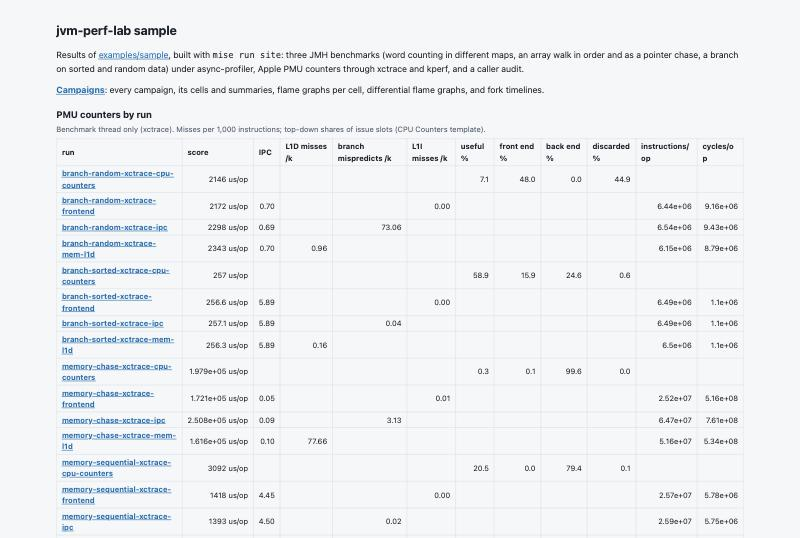
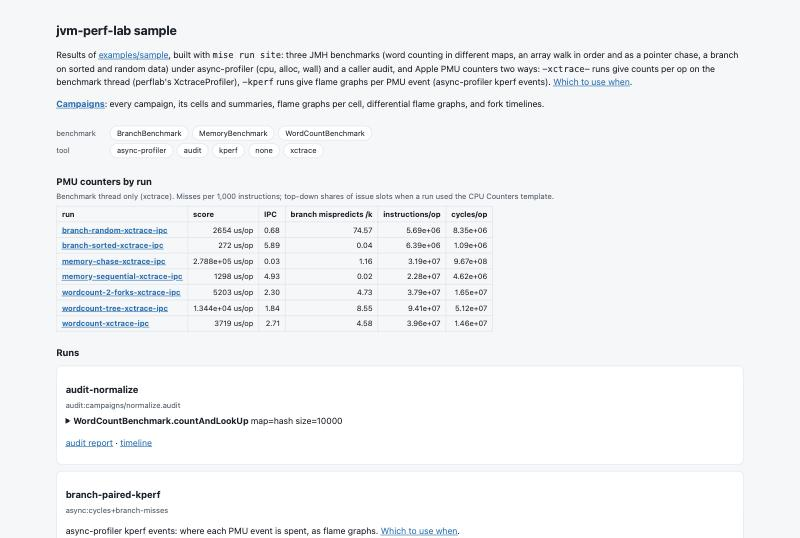
Sample site: two PMU events per kperf run, xctrace ipc only, three graph kinds, wall for one benchmark; multi-fork runs
regraph takes the graph kinds from [async] graphs in perflab.toml or --kinds. The site no longer lists timeline.html as a flame graph.
LLM-assisted (Claude).

diff --git a/python/src/perflab/regraph.py b/python/src/perflab/regraph.py
@@ -4,7 +4,8 @@ beside the async-profiler library). Multi-event kperf recordings need a jfrconv 
   perflab regraph [--jfrconv <jfrconv>] [-j <jobs>] <run-dir>...
 
 A run directory is one `perflab run` or a campaign cell wrote with an async profile. For each JFR under it, each event and
-each graph kind below, writes `<jfr stem>-<label>[-<kind>].html`.
+each graph kind (KINDS below; `[async] graphs = [...]` in perflab.toml or --kinds picks some), writes
+`<jfr stem>-<label>[-<kind>].html`.
 """
 import argparse, concurrent.futures, glob, os, re, shutil, subprocess, sys
 
@@ -19,6 +20,16 @@ KINDS = {
     "bench-classify": (BENCH + ["--classify"], False),
     "reverse-classify": (BENCH + ["--classify"], True),
 }
+
+
+def kinds(explicit=None):
+    """The graph kinds to render: `explicit`, else [async] graphs in perflab.toml, else all of KINDS."""
+    from . import config
+    ks = explicit or config.get().get("async", "graphs") or list(KINDS)
+    unknown = [k for k in ks if k not in KINDS]
+    if unknown:
+        sys.exit(f"unknown graph kinds {unknown}; known: {', '.join(KINDS)}")
+    return ks
 
 
 def events_of(profile):
@@ -69,7 +80,7 @@ def render_one(jfrconv, jfr, label, select, kind, title):
     return f"{out}: jfrconv failed: {r.stderr.strip()[:300]}" if r.returncode else None
 
 
-def regraph(dirs, jfrconv=None, jobs=4, title_of=None):
+def regraph(dirs, jfrconv=None, jobs=4, title_of=None, kinds_=None):
     if not jfrconv:
         from . import jmh
         jfrconv = jmh.jfrconv(jmh.async_lib())
@@ -78,7 +89,7 @@ def regraph(dirs, jfrconv=None, jobs=4, title_of=None):
         for jfr in sorted(glob.glob(os.path.join(d, "**", "*.jfr"), recursive=True)):
             name = title_of(d) if title_of else os.path.basename(d.rstrip("/"))
             for label, select in events_of(d):
-                for kind in KINDS:
+                for kind in kinds(kinds_):
                     tasks.append((jfrconv, jfr, label, select, kind, f"{name}: {label.removeprefix('hw-')}, {kind}"))
     # reverse graphs one at a time (each may take HEAP), the rest in parallel
     reverse = [t for t in tasks if KINDS[t[4]][1]]
@@ -103,9 +114,10 @@ def main(argv):
     ap.add_argument("--heap", default=HEAP, help="jfrconv heap for reverse graphs")
     ap.add_argument("--force", action="store_true", help="redo graphs that are already up to date")
     ap.add_argument("--minwidth", default=MINWIDTH, help="jfrconv --minwidth, in percent (default %(default)s)")
+    ap.add_argument("--kinds", help=f"comma-separated graph kinds (default: [async] graphs in perflab.toml, else all: {','.join(KINDS)})")
     ap.add_argument("dirs", nargs="+")
     a = ap.parse_args(argv)
     FORCE, HEAP, MINWIDTH = a.force, a.heap, a.minwidth
-    ok, problems = regraph(a.dirs, a.jfrconv, a.jobs)
+    ok, problems = regraph(a.dirs, a.jfrconv, a.jobs, kinds_=a.kinds.split(",") if a.kinds else None)
     print(f"{ok} graphs written, {len(problems)} problems")
     return 1 if problems else 0

diff --git a/python/src/perflab/site.py b/python/src/perflab/site.py
@@ -91,8 +91,7 @@ def overview(dest, runs):
     body = "".join(f"<tr data-benchmark='{esc(fb)}' data-tool='{esc(ft)}'><th><a href='#{esc(n)}'>{esc(n)}</a></th><td>{esc(sc)}</td>"
                    + "".join(f"<td>{c.get(h, '')}</td>" for h in heads) + "</tr>"
                    for n, sc, c, (fb, ft) in rows)
-    return (f"<div class='overview'><h2>PMU counters by run</h2><p class='k'>Benchmark thread only (xctrace). Misses per 1,000 instructions; top-down "
-            f"shares of issue slots (CPU Counters template).</p><div class='scroll'><table class='o'><tr><th>run</th><th>score</th>"
+    return (f"<div class='overview'><h2>PMU counters by run</h2><p class='k'>Benchmark thread only (xctrace). Misses per 1,000 instructions; top-down shares of issue slots when a run used the CPU Counters template.</p><div class='scroll'><table class='o'><tr><th>run</th><th>score</th>"
             + "".join(f"<th>{esc(h)}</th>" for h in heads) + f"</tr>{body}</table></div></div>")
 
 
@@ -258,7 +257,7 @@ def landing(dest, title, runs):
             parts.append("<p>" + " · ".join(links) + "</p>")
         # flame graphs, <jfr stem>-<event>[-<kind>].html, as a row per event
         graphs = sorted(g for g in glob.glob(os.path.join(run, "**", "*.html"), recursive=True)
-                        if not g.endswith((".txt.html", "report.html")))
+                        if not g.endswith((".txt.html", "report.html", "timeline.html")))
         events = {}
         for g in graphs:
             base, kind = os.path.basename(g)[:-5], "bench"

diff --git a/python/src/perflab/index.py b/python/src/perflab/index.py
@@ -37,7 +37,7 @@ def cell_row(spec, corpus, variant, cell):
         if jfr:
             parts = []
             for label, _ in regraph.events_of(prof):
-                ks = " · ".join(link(regraph.graph_path(jfr, label, k), k) for k in regraph.KINDS)
+                ks = " · ".join(link(regraph.graph_path(jfr, label, k), k) for k in regraph.kinds())
                 parts.append(f"<b>{esc(label.removeprefix('hw-'))}</b>: {ks}")
             graphs = "<br>".join(parts)
     tl = os.path.join(cell, "timeline.html")

diff --git a/README.md b/README.md
@@ -20,7 +20,7 @@ Requires Java 17. Design and plan: [doc/design.md](doc/design.md).
 | [![Flame graph](doc/screenshots/flamegraph.png)](https://retronym.github.io/jvm-perf-lab/) | [![Audit report](doc/screenshots/audit.png)](https://retronym.github.io/jvm-perf-lab/runs/audit/report.html) |
 | async-profiler, benchmark threads | A caller audit: calls to `normalize`, by caller |
 | [![PMU counters by run](doc/screenshots/counters.png)](https://retronym.github.io/jvm-perf-lab/) | [![Paired memory benchmark timeline](doc/screenshots/memory-timeline.png)](https://retronym.github.io/jvm-perf-lab/campaigns/memory-paired/4194304/paired/1/timeline.html) |
-| PMU counters by run (xctrace): IPC, L1D and branch misses per 1000 instructions, top-down split | Pointer chase over a sequential vs shuffled array in one fork: IPC drops from about 4.5 to 0.1 in the shuffled iterations |
+| PMU counters by run (xctrace): IPC, branch mispredicts per 1000 instructions, instructions and cycles per op | Pointer chase over a sequential vs shuffled array in one fork: IPC drops from about 4.5 to 0.1 in the shuffled iterations |
 
 ## Modules
 

diff --git a/doc/pmu-counters.md b/doc/pmu-counters.md
@@ -17,7 +17,7 @@ Use `XctraceProfiler` to measure. Instructions and cycles per op on the benchmar
 
 Use kperf events to locate. Once the counts show that a change moved cycles or misses, a kperf flame graph of that event shows which methods are responsible. `cache-misses` and `branch-misses` are charged to the load or branch that caused them.
 
-The sample site has both for each benchmark: `<benchmark>-xctrace-<template>` runs and `<benchmark>-kperf` runs.
+The sample site has both for each benchmark: a `<benchmark>-xctrace-ipc` run, and a `<benchmark>-kperf` run of cycles and the miss event the benchmark is about (`cache-misses` or `branch-misses`). The paired campaigns `memory-paired` (`mem-l1d`) and `branch-paired` (`ipc`) compare both settings of a benchmark within one fork.
 
 ## XctraceProfiler
 
